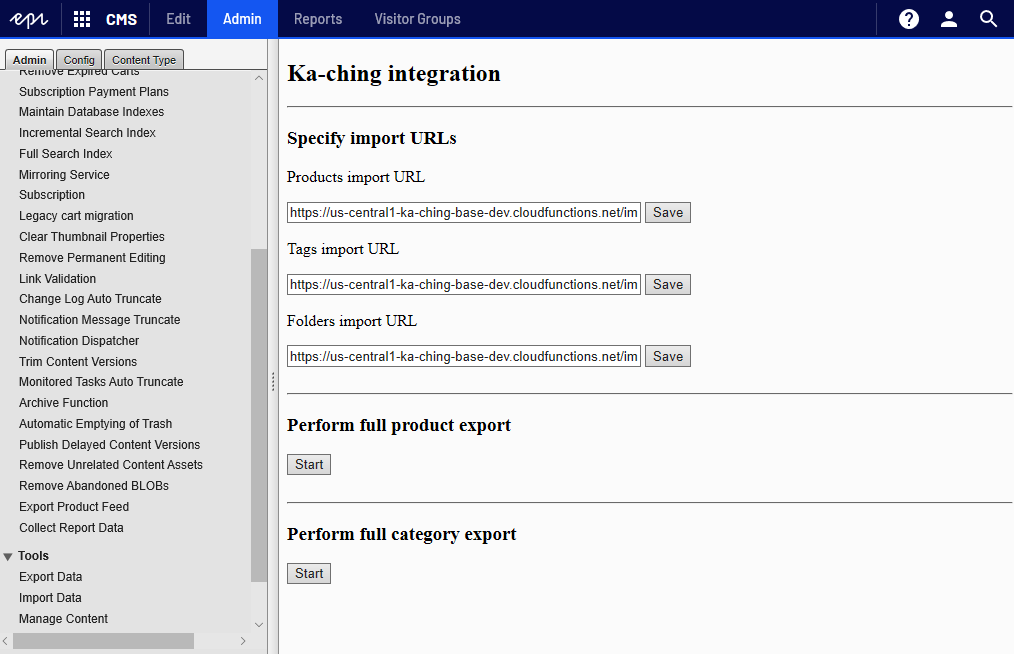
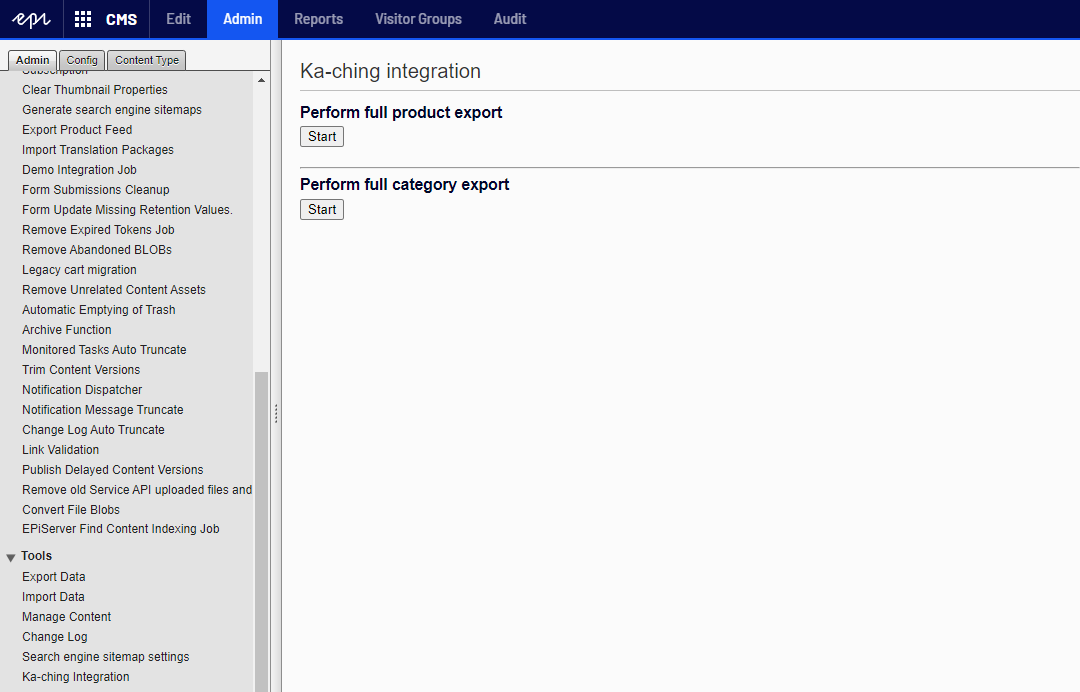
More work on README.md file to make it match the latest changes. Updated screenshot to match latest changes.

Changed region(s): [[0.0, 0.0, 1.0, 1.0]]

diff --git a/README.md b/README.md
@@ -8,32 +8,37 @@
  
 ## Concept
 
-This Episerver add-on aims at making it easy to use the awesome capabilities and information in Episerver Commerce as a sales tool in retail stores by integrating with Ka-ching.
+This Episerver Add-On aims at making it easy to use the awesome capabilities and information in Episerver Commerce as a sales tool in retail stores by integrating with Ka-ching.
 
-When the add-on is installed it listens for commerce data change events and if configured with import URLs it will send the updated data to Ka-ching. Version 3 of the Add-On also makes it easy to send sales data to Episerver from Ka-ching as well as enabling customer lookup in Ka-ching with minimal effort. See below for details of what data and what events are handled. 
+When the Add-On is installed it listens for commerce data change events and if configured with import URLs it will send the updated data to Ka-ching. Version 3 of the Add-On also makes it easy to send checkout data to Episerver from Ka-ching as well as enabling customer search from Ka-ching POS with minimal effort. See below for details of what data and what events are handled. 
 
-Configuration of the add-on is done post-install in a Ka-ching related section in web.config. See below for more details. To perform initial exports to Ka-ching go the CMS admin page and find "Ka-ching Integration" in the Tools section. 
+Configuration of the Add-On is done post-install in a Ka-ching section in Web.config. See below for more details. After configuration in Web.config then to perform initial exports to Ka-ching, go the CMS admin page and find "Ka-ching Integration" in the Tools section. 
 
 The current implementation is developed and tested using the Episerver reference commerce site [Foundation](https://github.com/episerver/Foundation).
 
-All development on this add-on is open source under the MIT license. Contributions are very welcome.
+All development on this Add-On is open source under the MIT license. Contributions are very welcome.
 
 You need a Ka-ching account to use this Add-On. If you don't have one then [contact us](https://ka-ching.dk/about-us/) to learn more.
 
 If you have a Ka-ching account you can download the [Ka-ching POS app](https://apps.apple.com/us/app/ka-ching-pos-point-of-sale/id1474762454) and get started utilizing Episerver in your stores right away.
 
-## Configuring the add-on
+## Configuring the Add-On
 
 This section assumes you have a Ka-ching account. Get in touch using the contact details found [here](https://ka-ching.dk/about-us/) if you need an account.
 
 ### Episerver
 
-The Ka-ching Add-On for Episerver consists of 2 NuGet packages. 1 for CMS and 1 for Commerce. You can find them on the [Episerver NuGet feed](https://nuget.episerver.com/?q=kaching&s=Popular&r=10&f=All). Currently the Ka-ching Add-On works with Episerver.CMS version 11 and Episerver.Commcerce version 13.
+The Ka-ching Add-On for Episerver consists of 2 NuGet packages:
+
+* KachingPlugIn - which can be installed independently on Commerce Manager instances if necessary.
+* KachingPlugIn.Web - which should be installed on the front end. This package has a dependency to KachingPlugIn.
+ 
+You can find them on the [Episerver NuGet feed](https://nuget.episerver.com/?q=kaching&s=Popular&r=10&f=All). Currently the Ka-ching Add-On works with Episerver.CMS version 11 and Episerver.Commcerce version 13.
 
 #### Data synchronization from Episerver to Ka-ching
 
 TODO
-After installing the NuGet packages in the relevant Episerver projects you should see a `kaching` section of the web.config in the CMS project:
+After installing the NuGet packages in the relevant Episerver projects you should see a `kaching` section of the Web.config in the front end project:
 
 ```xml
 <kaching productsImportUrl=""
@@ -51,24 +56,24 @@ After installing the NuGet packages in the relevant Episerver projects you shoul
 </kaching>
 ```
 
-In this section you need to specify URL endpoints for each data entity you wish to synchronize to Ka-ching. See more on how to obtain those below.
+In this section you need to specify URL endpoints for each data entity you wish to synchronize to Ka-ching. See more on how to obtain those below. Convert any ampersand characters `&` into `&amp;` to avoid errors.
 
 Ka-ching supports products without variants and if you have products with just 1 variant you can force those to be just products in Ka-ching by setting `exportSingleVariantAsProduct` to `true`. This makes it possible to tap the product in Ka-ching to put it in the basket as opposed to opening the product details page where you have to choose the variant.
 
-To receive events from commerce data changes happing in the Commerce Manager set `listenToRemoteEvents` to `true` - if you're running more than 1 front end in load balanced setup take care that only one of these instances have this enabled since the Commerce Manager will send push notifications to all front ends.
+To receive events from commerce data changes happing in other instances set `listenToRemoteEvents` to `true` - if you're running more than 1 front end in load balanced setup, take care that only one of these instances have this enabled since the Commerce Manager will send push notifications to all front ends.
 
-For all products and variants you can use the `barcodeMetaField` and `descriptionMetaField` attributes of the `systemMappings` mappings element to tell the Ka-ching Add-On where to look for those pieces of information and place them correctly in data sent to Ka-ching. If for example you store the barcode information that should be used for scanning in the stores in a field called `EAN` on the products and variants, then you specify `barcodeMetaField="EAN"`. Those two fields should be normal strings, but we do however try to convert XhtmlString to a string by stripping tags.
+For all products and variants you can use the `barcodeMetaField` and `descriptionMetaField` attributes of the `systemMappings` mappings element to tell the Ka-ching Add-On where to look for those pieces of information and place them correctly in data sent to Ka-ching. If for example you store the barcode string that should be used when scanning barcodes in the stores in a field called `EAN` on the products and variants, then you specify `barcodeMetaField="EAN"`. Those two fields should be normal strings, but we do however try to convert XhtmlString to a string by stripping tags.
 
-If you have custom attributes on your products and variants you can map those to their Ka-ching using the `attributeMappings` element. The `metaField` is the name of the property on your product or variant and `attributeId` is the id of the matching attribute define in Ka-ching. You'll have to define those manually in Ka-ching Backoffice.
+If you have custom attributes on your products and variants you can map those to their Ka-ching counterparts using the `attributeMappings` element. The `metaField` is the name of the property on your product or variant and `attributeId` is the id of the matching attribute define in Ka-ching. You'll have to define those manually in Ka-ching Backoffice.
 
 #### Endpoints in Episerver
 
-The Ka-ching Add-On sets up two endpoints for communicting with Ka-ching:
+The Add-On sets up two endpoints for communicting with Ka-ching:
 
 * Customer search based on a search string from Ka-ching 
 * Real time reception of data from checkouts done in the physical stores
 
-To enable these endpoints you have to enable KachingApiKeyAuthentication which is done by activating in on the app builder in Startup.cs. You can use any string as API key. It is passed in the Authorization header in the HTTP calls from Ka-ching. See below for more on how to configure the Authorization header on the Ka-ching side.
+To enable these endpoints you have to enable KachingApiKeyAuthentication which is done by activating in on the app builder in Startup.cs in the front end. You can use any string as API key. It is passed in the Authorization header in the HTTP calls from Ka-ching. See below for more on how to configure the Authorization header on the Ka-ching side.
 
 ```
 app.UseKachingApiKeyAuthentication(
@@ -80,11 +85,11 @@ app.UseKachingApiKeyAuthentication(
 
 ### Ka-ching
 
-Go to [Ka-ching Backoffice](https://backoffice.ka-ching.dk/login) to setup the import integrations needed for this add-on to work.
+Go to [Ka-ching Backoffice](https://backoffice.ka-ching.dk/login) to configure the integrations needed for this Add-On to work.
 
 After logging in, click the user icon in the top bar and click the "Advanced" option to show the "Advanced" menu in the left of the screen.
 
-Click the "Import integrations" option. The Add-on supports synchronization to Ka-ching using the following integration points:
+Click the "Import integrations" option. The Add-On supports synchronization to Ka-ching using the following integration points:
 
 * Products import
 * Product assets import
@@ -92,9 +97,9 @@ Click the "Import integrations" option. The Add-on supports synchronization to K
 * Tags import
 * Folders import
 
-Copy and paste each of the URLs for those endpoints to their appropriate fields in the web.config configuration in Episerver. Once those URLs are saved it will be possible to do an initial full export of products, categories, document/image assets and product relations from Episerver to Ka-ching from the `Ka-ching integration` page in CMS admin.
+Copy and paste each of the URLs for those endpoints to their appropriate fields in the Web.config configuration in Episerver. Once those URLs are saved it will be possible to do an initial full export of product information and categories from Episerver to Ka-ching from the `Ka-ching Integration` page in CMS admin.
 
-To enable customer search in Episervers customer database from Ka-ching go to the "Runtime integrations" menu option. Click "Add integration" and choose "Add customer lookup integration". Give it a name, an id and enter the URL of the endpoint in Episerver. HTTP method should be GET. The URL will have the form `https://<episerver-host>/api/kaching/customerlookup`. Click "Add HTTP header" and specify `Authorization` as header name with `KachingKey <episerver-api-key>` where `<episerver-api-key>` is the API key mention above. Click "Add query parameter" and specify `q` as the name with `{search_term}` as the value.
+If you want to search for customers in Episerver from Ka-ching go to the "Runtime integrations" menu option. Click "Add integration" and choose "Add customer lookup integration". Give it a name, an id and enter the URL of the endpoint in Episerver. HTTP method should be GET. The URL will have the form `https://<episerver-host>/api/kaching/customerlookup`. Click "Add HTTP header" and specify `Authorization` as header name with `KachingKey <episerver-api-key>` where `<episerver-api-key>` is the API key mention above. Click "Add query parameter" and specify `q` as the name with `{search_term}` as the value.
 
 To enable real time checkout data from Ka-ching go to the "Export integrations" menu option. The setup is similar very to the setup for the customer lookup integration. Click "Add web hook" and choose "Add sale integration". Give it a name, an id and enter the URL of the endpoint in Episerver. The URL wil have the form `https://<episerver-host>/api/kaching/sales`. Click "Add HTTP header" and specify `Authorization` as header name with `KachingKey <episerver-api-key>` where `<episerver-api-key>` is the API key mention above.
 
@@ -113,16 +118,14 @@ More info on how to use the Ka-ching Backoffice can be found on our [Zendesk sit
 * Create and configure shops. Select appropriate market for each of the shops.
 * Create cashiers for each shop.
 * Create and invite the appropriate users needed. Ususally a shop manager for each shop is enough.
-* If you use custom product attributes you'll have to define them manually with ids matching the `attributeId` specified in the web.config configuration in Episerver.
+* If you use custom product attributes you'll have to define them manually with ids matching the `attributeId` specified in the Web.config configuration in Episerver.
 * If you use related products or recommendations as they're called in Ka-ching then you have to configure recommendation categories manually where the ids match the association group ids in Episerver.
-
-That should do it.
 
 ## Data from Episerver to Ka-ching
 
 ### Products
 
- * Product code
+ * Product code.
  * Display name for all defined languages.
  * Default prices for all markets.
  * First image present if any.
@@ -132,7 +135,7 @@ That should do it.
 
 ### Variations
 
- * Variant code
+ * Variant code.
  * Display name for all defined languages.
  * Default prices for all markets.
  * First image present if any.
@@ -145,7 +148,7 @@ That should do it.
 
 ### Product associations
 
-* Associated product codes for each product
+* Associated product codes for each product.
 
 ### Product assets
 
@@ -221,7 +224,7 @@ For normal sales the Add-On creates orders in Episerver where the order shipment
 
 ### Ecommerce order from store
 
-If the feature is enabled, Ka-ching makes possible for the store associates to sell items from the webshop with the expectation that the webshop will handle fulfillment of that order. It's useful if the store doesn't carry the full product catalogue or they are temporarily sold out of a particular item that the customer wants.
+If the feature is enabled in Ka-ching, it's possible for the store associates to sell items from the webshop with the expectation that the webshop will handle fulfillment of the order. It's useful if the store doesn't carry the full product catalogue or they are temporarily sold out of a particular item that the customer wants.
 
 This kind of sale in Ka-ching will have a special line item that represents the shipping information, like delivery address, id of shipping method and costs. If such a line is present the Add-On will create a separate shipment with status `AwaitingInventory` and the order itself will be marked as `InProgress`.
 
@@ -273,11 +276,16 @@ If there's no `debugLogAppender` appender defined then paste this element inside
 - Go to the bottom of the file Main.targets in the Packager folder and change the value of `DestinationFolder` in this tag `<Copy  SourceFiles="@(_CopyItems)" DestinationFolder="C:\Users\User\nugets" />`to match the path of your local nuget folder.
 - Ctrl-Shift-B to build solution. The package dependencies should be downloaded automatically based on the packages.config file.
 
-### Running
+### Running with Foundation
 
-- Open your favorite Episerver Commerce project.
-- Make sure you have a NuGet feed that's looking in the folder specified above.
-- In the Package Manager Console run the command `install-package KachingPlugIn`.
+- Clone the Foundation [repo](https://github.com/episerver/Foundation).
+- Switch to the `develop` branch (as of 20th of July 2020) . We never managed to start up Foundation from the `master` branch.
+- Change the setup.cmd file:
+  - Add "" around %SQLSERVER% in linie 152
+- We had to use `(LocalDB)\.` when specifying the local database server.
+- Either download the Ka-ching packages from the [Episerver Nuget feed](https://nuget.episerver.com/?q=kaching&s=Popular&r=10&f=All) or install them from locally built packages.
+- In the Package Manager Console run the command `install-package KachingPlugIn.Web`.
+- Go through the necessary configurations as described above.
 - Build solution.
 - Refresh your browser or debug solution if IIS Express is not already running.
 
@@ -287,9 +295,15 @@ If there's no `debugLogAppender` appender defined then paste this element inside
 
 ## Ideas for future versions
 
+- Configuration of custom product properties to use for dimensions and values in Ka-ching.
 - Handling of tax data per product.
 - Bundles and packages.
 - Synchronization of stock values to Ka-ching.
 - Synchronization of campaigns.
 - Synchronization of markets and default taxes.
+- Synchronization of shipping methods.
 - Better marking and handling of click & collect orders.
+- Unit tests.
+- Handling of data from return checkouts from Ka-ching.
+- Sending a customer's basket from Ka-ching to Episerver.
+- Customer sign up in Ka-ching POS.
